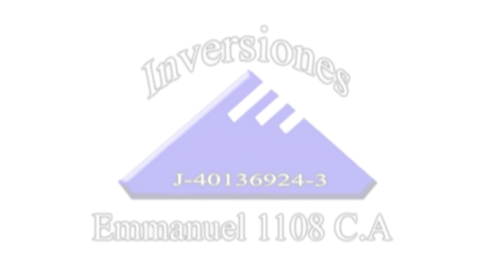
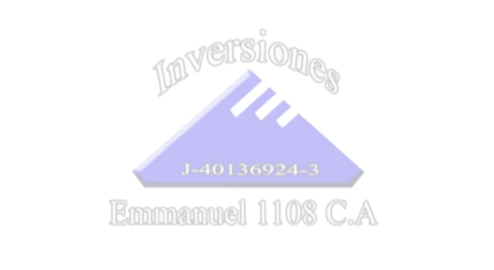
cambios fondo

Changed region(s): [[0.1822, 0.5926, 0.7895, 0.9185], [0.2733, 0.0889, 0.7287, 0.3556], [0.4555, 0.2963, 0.6073, 0.5037]]

diff --git a/app/webroot/css/sb-admin.css b/app/webroot/css/sb-admin.css
@@ -22,13 +22,13 @@ body {
 
 #page-wrapper {
     width: 100%;
-    padding: 300;
+    padding: 0;
     /*background-color: #fff;*/
     background-image: url('../img/foto2.png');
     background-size: 50%;
     background-repeat: no-repeat;
     background-attachment: fixed;
-    background-position: 390px 180px;
+    background-position: 410px 180px;
 }
 
 .huge {
